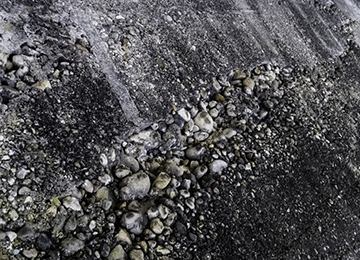
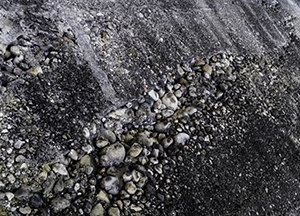
Fixing images, layout adjustments, styling resume
Resized images for better quality. Made layout and style adjustments to the homepage and resume.

diff --git a/resume.html b/resume.html
@@ -29,11 +29,11 @@
   
   <section>
     <h4 class="sectionhead">EDUCATION</h4>
-    <p><strong>Illinois Tech,</strong> Chicago, IL <strong>GPA: 3.88/4.0</strong>    In progress</p>
+    <p class="place"><strong>Illinois Tech,</strong> Chicago, IL <strong>GPA: 3.88/4.0</strong>    In progress</p>
     <ul>
       <li>Bachelor in Applied Technology: Information Technology and Management</li>
     </ul>
-    <p><strong>College of Lake County,</strong> Grayslake, IL <strong>GPA: 3.93/4.0</strong>    May 2015</p>
+    <p class="place"><strong>College of Lake County,</strong> Grayslake, IL <strong>GPA: 3.93/4.0</strong>    May 2015</p>
     <ul>
       <li>Associates in Applied Science: Digital Media and Design: Web Design</li>
       <li>Multimedia Communications Certificate</li>
@@ -43,40 +43,40 @@
   <section>
     <h4 class="sectionhead">EXPERIENCE</h4>
     
-    <p><strong>SAT Department,</strong> Chicago, IL     February 2016 - Present</p>
-    <p><em>Student Assistant</em></p>
+    <p class="place"><strong>SAT Department,</strong> Chicago, IL     February 2016 - Present</p>
+    <p><em class="import">Student Assistant</em></p>
     <ul>
       <li>Maintained the computer lab/server room and changed the drives for the classes</li>
       <li>Provided customer service to the instructors, students, and faculty</li>
       <li>Assisted with problem solving and technical repairs on the computers in the labs</li>
     </ul>
-    <p><strong>James Lumber Center,</strong> Grayslake, IL     October 2014 - May 2015</p>
+    <p class="place"><strong>James Lumber Center,</strong> Grayslake, IL     October 2014 - May 2015</p>
     
-    <p><em>Student Worker</em></p>
+    <p><em class="import">Student Worker</em></p>
     <ul>
       <li>Designed signs, fliers, and maps for plays, musicals, events and touring company shows</li>
       <li>Managed hospitality for events, including arranging food and beverage for guests of honor</li>
       <li>Assisted with general office duties including reservations, sorting, copying and answering phones</li>
     </ul>
     
-    <p><strong>Torrenga Surveying, LLC.,</strong> Munster, IN     June 2014 - August 2014</p>
-    <p><em>Receptionist</em></p>
+    <p class="place"><strong>Torrenga Surveying, LLC.,</strong> Munster, IN     June 2014 - August 2014</p>
+    <p><em class="import">Receptionist</em></p>
     <ul>
       <li>Provided company information to potential clients and referred to appropriate department</li>
       <li>Maintained database and typed invoices for customers</li>
       <li>Managed multiple line phone system</li>
     </ul>
     
-    <p><strong>Earth Elements,</strong> Fox Lake, IL     June 2013 - August 2013</p>
-    <p><em>Office Intern</em></p>
+    <p class="place"><strong>Earth Elements,</strong> Fox Lake, IL     June 2013 - August 2013</p>
+    <p><em class="import">Office Intern</em></p>
     <ul>
       <li>Designed advertisements and fliers for the store's special events and sales</li>
       <li>Organized database, email groups, and developed new patient forms</li>
       <li>Assisted customers in selecting products for health care concerns</li>
     </ul>
     
-    <p><strong>Rainbow Apparel,</strong> Round Lake Beach, IL     January 2008 - September 2012</p>
-    <p><em>Co-Manager</em></p>
+    <p class="place"><strong>Rainbow Apparel,</strong> Round Lake Beach, IL     January 2008 - September 2012</p>
+    <p><em class="import">Co-Manager</em></p>
     <ul>
       <li>Managed Junior's Apparel store including daily sales of $1,000-$5,000</li>
       <li>Supervised and trained 7 employees to maintain optimal customer satisfaction</li>
@@ -87,38 +87,38 @@
   <section>
     <h4 class="sectionhead">ACTIVITIES AND LEADERSHIP</h4>
   
-    <p><strong>SAT Ambassador,</strong> Chicago, IL     August 2016 - Present</p>
+    <p class="place"><strong>SAT Ambassador,</strong> Chicago, IL     August 2016 - Present</p>
     <ul>
       <li>Mentor other ITM students, volunteer to help at events, and be a role model at IIT</li>
     </ul>
   
-    <p><strong>ITM Department T-shirt Design,</strong> Chicago, IL     August 2016</p>
+    <p class="place"><strong>ITM Department T-shirt Design,</strong> Chicago, IL     August 2016</p>
     <ul>
       <li>Designed an ITM Department T-shirt for the new Fall ITM Students at IIT</li>
     </ul>
   
-    <p><strong>AcAPs Parking Permit Contest,</strong> Chicago, IL     April 2016</p>
+    <p class="place"><strong>AcAPs Parking Permit Contest,</strong> Chicago, IL     April 2016</p>
     <ul>
       <li>Judged parking permit design contest that featured my Resident and Evening Parking Permit Design</li>
     </ul>
   
-    <p><strong>34th Annual Student Art Competition,</strong> Grayslake, IL     April 2015 - May 2015</p>
+    <p class="place"><strong>34th Annual Student Art Competition,</strong> Grayslake, IL     April 2015 - May 2015</p>
     <ul>
       <li>Judged art competition that featured my flash animation called "Invention of Love"</li>
     </ul>
   
-    <p><strong>Phi Theta Kappa,</strong> Grayslake, IL     October 2014 - Present</p>
+    <p class="place"><strong>Phi Theta Kappa,</strong> Grayslake, IL     October 2014 - Present</p>
     <ul>
       <li>Lifetime member of the College of Lake County Honor Society</li>
     </ul>
   
-    <p><strong>Girl Scouts USA,</strong> Fox Lake, IL     September 1987 - June 2000</p>
+    <p class="place"><strong>Girl Scouts USA,</strong> Fox Lake, IL     September 1987 - June 2000</p>
     <ul>
       <li>Managed the Service Unit monthly newspaper</li>
       <li>Assisted in the monthly Service Unit meetings as a council member</li>
     </ul>
   
-    <p><strong>Camp Morrison,</strong> Lake Villa, IL     June 1999 - August 1999</p>
+    <p class="place"><strong>Camp Morrison,</strong> Lake Villa, IL     June 1999 - August 1999</p>
     <ul>
       <li>Summer Program Aide: taught the scouts life-long skills of leadership, character, courage, and confidence</li>
       <li>Volunteered weekly to assist full-time staff with the scouts and organizing the camp: organize equipment, trained the staff, janitorial work, camp maintenance, organized youth activities</li>

diff --git a/styles.css b/styles.css
@@ -56,8 +56,8 @@ table {
 /* Added CSS code to my portfolio design. */
 
 #navmenu {
-  /*background-color: #E0EBEE;*/
-  background-color: #FFFFFF;
+  background-color: #E0EBEE;
+  /*background-color: #FFFFFF;*/
   position: relative;
   width: 100%;
   top: 0;
@@ -95,9 +95,20 @@ table {
 .myheader {
   font-family: 'Roboto', serif;
   font-weight: 800;
-  font-size: 60px;
+  font-size: 50px;
   text-align: center;
   padding: 10px;
+}
+
+footer {
+  display: block;
+  background-color: #E0EBEE;
+  position: bottom;
+  padding: 20px;
+  width: 100%;
+  top: 0;
+  margin-top: 20px;
+  margin-bottom: 20px;
 }
 
 .gallery {
@@ -115,6 +126,7 @@ table {
 .gallery img {
   width: 300px;
   height: 180px;
+  float: left;
 }
 
 section.caption {
@@ -122,4 +134,81 @@ section.caption {
   text-align: left;
 }
 
+h1 {
+  text-align: center;
+  color: #000000;
+  text-transform: uppercase;
+  text-shadow: 3px 2px gray;
+}
 
+h2, h3, h4 {
+  text-align: center;
+  color: #000000;
+  font-weight: bold;
+  padding: 10px;
+  font-size: 20px;
+  font-family: 'Roboto', serif;
+}
+
+img {
+  display: block;
+  margin: auto;
+  width: 400px;
+  height: 300px;
+  margin-top: 20px;
+  margin-bottom: 20px;
+}
+
+p, ul {
+  text-align: left;
+  margin-left: 10px;
+  font-size: 16px;
+}
+
+ul {
+  text-align: left;
+  margin-left: 30px;
+  margin-top: 5px;
+  margin-bottom: 15px;
+  padding-bottom: 10px;
+  list-style-type: circle;
+  list-style-position: inside;
+}
+
+.subject {
+  background-color: #227CA2;
+  position: relative;
+  width: 100%;
+  top: 0;
+  text-align: center;
+  margin-top: 20px;
+  margin-bottom: 20px;
+  font-size: 20px;
+  text-decoration: none;
+  font-weight: bold;
+  text-transform: uppercase;
+  font-family: Arial, sans-serif;
+}
+
+.sectionhead {
+  border: 3px solid #227CA2;
+  border-radius: 5px;
+  padding: 10px;
+  margin-top: 40px;
+  margin-bottom: 40px;
+}
+
+.place {
+  margin-top: 5px;
+  margin-bottom: 5px;
+  
+}
+
+strong {
+  font-weight: bold;
+}
+
+em {
+  font-style: italic;
+  margin-left: 5px;
+}

diff --git a/index.html b/index.html
@@ -6,7 +6,7 @@
   <link rel="stylesheet" type="text/css" href="styles.css">
 </head>
 <body>
-  <img src="images/geekbitbanner.jpg" alt="Banner of Retro Multilayer">
+  <img id="banner" src="images/geekbitbanner.jpg" alt="Banner of Retro Multilayer">
   
   <header>
     <h1 class="myheader">Geekbit Creations:</h1>
